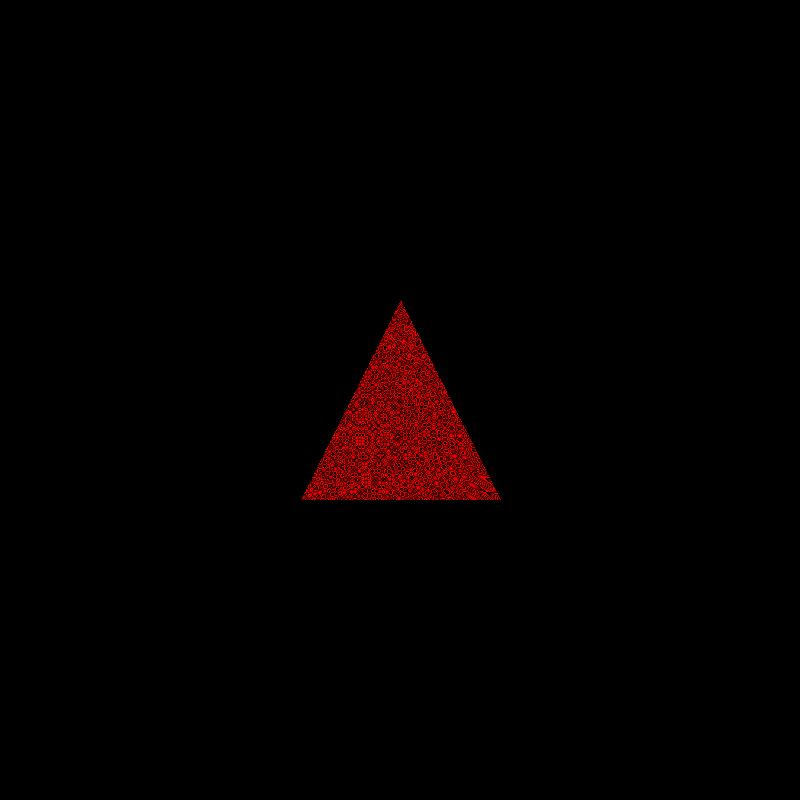
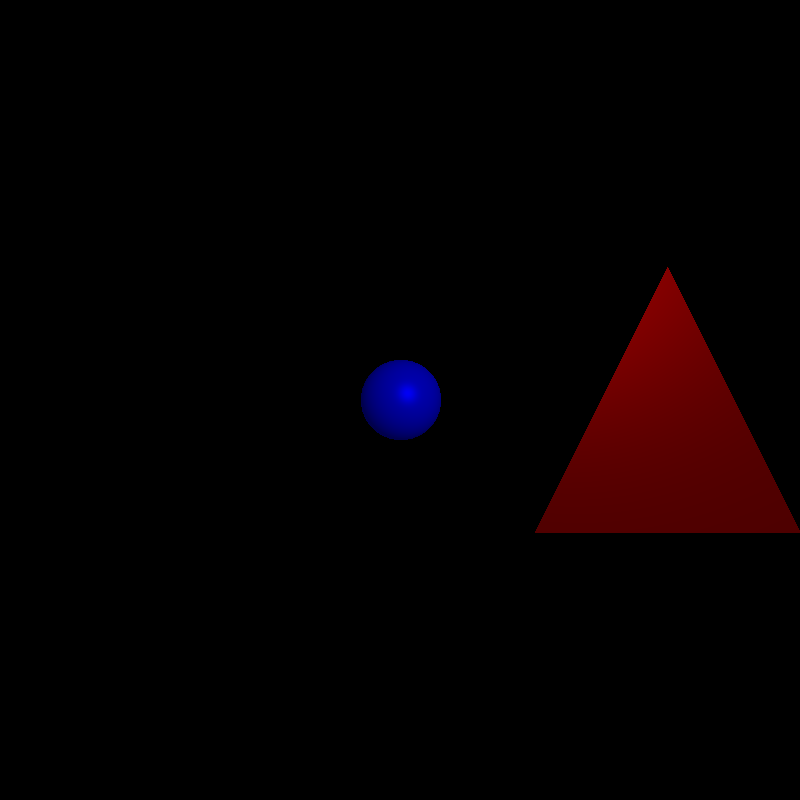
Shading working

Changed region(s): [[0.6562, 0.3438, 1.0, 0.6875], [0.375, 0.375, 0.625, 0.625]]

diff --git a/Raytracer/Raytracer/RayGenerator.cpp b/Raytracer/Raytracer/RayGenerator.cpp
@@ -20,13 +20,13 @@ vec3 phongLighting(RayIntersection rayIntersect, Scene *scene) {
 		vec3 light = normalize(scene->lights[l].pos - rayIntersect.position);
 		Ray refLight = reflectRay(Ray(scene->lights[l].pos, -light), rayIntersect.position, normal);
 
-		vec3 diffuse = shading.kd*dot(normal, light)*shading.color;
-		vec3 specular = shading.ks*pow(dot(viewer, refLight.dir), shading.n)*shading.color;
+		vec3 diffuse = shading.kd*clamp(dot(normal, light), 0.f, 1.f)*shading.color;
+		vec3 specular = shading.ks*pow(clamp(dot(viewer, refLight.dir), 0.f, 1.f), shading.n)*shading.color;
 
 		color += diffuse + specular;
 
 	}
-
+	
 	return color;
 }
 
@@ -46,7 +46,7 @@ void Raytracer::renderScene(float fov, float nearPlane, Scene *scene) {
 			glm::vec3 rayOrigin = topLeftLocation + vec3(float(i)*pixelWidth, -float(j)*pixelWidth, 0.f);
 			Ray ray = Ray(rayOrigin, normalize(rayOrigin));
 
-			vector<RayIntersection> intersectionList = intersect(ray, scene, 1);
+			vector<RayIntersection> intersectionList = intersect(ray, scene, 2);
 			vec3 color = vec3(0.f);
 			float rayContribution = 1.f;
 			for (int k = 0; k < intersectionList.size(); k++) {

diff --git a/Raytracer/Raytracer/Scene.cpp b/Raytracer/Raytracer/Scene.cpp
@@ -5,6 +5,8 @@
 using namespace glm;
 using namespace std;
 
+const float INTERSECTION_OFFSET = 0.0001f;
+
 vector<RayIntersection> intersect(Ray ray, Scene *scene, int maxIntersections) {
 	vector<RayIntersection> intersectionList;
 	
@@ -39,10 +41,10 @@ vector<RayIntersection> intersect(Ray ray, Scene *scene, int maxIntersections) {
 		else {
 			//Push back closest intersection
 			intersectionList.push_back(*(min_element(currentIntersections.begin(), currentIntersections.end())));
-
+			vec3 normal = intersectionList.back().object->getNormal(intersectionList.back().position);
 			currentRay = reflectRay(	currentRay,
-										intersectionList.back().position,
-										intersectionList.back().object->getNormal(intersectionList.back().position));
+										intersectionList.back().position + normal*INTERSECTION_OFFSET,
+										normal);
 
 		}
 	}

diff --git a/Raytracer/Raytracer/main.cpp b/Raytracer/Raytracer/main.cpp
@@ -12,9 +12,16 @@ int main() {
 	Scene scene;
 	Raytracer raytracer(800, 800);
 
-	ShadingInfo red(0.4, 0.5, 0.4, 10, vec3(1, 0, 0));
+	ShadingInfo red(0.4, 0.5, 0.4, 10, vec3(1, 0, 0), 0.5f);
+	ShadingInfo blue(0.4, 0.5, 0.4, 10, vec3(0, 0, 1), 0.5f);
 
-	scene.triangles.push_back(Triangle(vec3(-0.5f, -0.5f, 2.f), vec3(0.5f, -0.5f, 2.f), vec3(0.f, 0.5f, 2.f), red));
+	vec3 offset(1.f, 0.f, -0.5f);
+
+	scene.triangles.push_back(Triangle(
+		vec3(-0.5f, -0.5f, 2.f) + offset, 
+		vec3(0.5f, -0.5f, 2.f) + offset,
+		vec3(0.f, 0.5f, 2.f) + offset, red));
+	scene.spheres.push_back(Sphere(vec3(0.0f, 0.f, 5.f), 0.5f, blue));
 	scene.lights.push_back(Light(vec3(5.f, 5.f, -10.f)));
 
 	raytracer.renderScene(glm::radians(90.f), 0.5f, &scene);

diff --git a/Raytracer/Raytracer/ImageWriter.cpp b/Raytracer/Raytracer/ImageWriter.cpp
@@ -7,9 +7,9 @@ void writePng(glm::vec3 *data, int width, int height, std::string filename) {
 	unsigned char* imageBytes = new unsigned char[width*height*3];
 
 	for (int i = 0; i < width*height; i++) {
-		imageBytes[3 * i] = char(255.f*data[i].x);
-		imageBytes[3 * i + 1] = char(255.f*data[i].y);
-		imageBytes[3 * i + 2] = char(255.f*data[i].z);
+		imageBytes[3 * i] = char(255.f*glm::clamp(data[i].x, 0.f, 1.f));
+		imageBytes[3 * i + 1] = char(255.f*glm::clamp(data[i].y, 0.f, 1.f));
+		imageBytes[3 * i + 2] = char(255.f*glm::clamp(data[i].z, 0.f, 1.f));
 	}
 
 	stbi_write_png(filename.c_str(), width, height, 3, imageBytes, 0);

diff --git a/Raytracer/Raytracer/Geometry.cpp b/Raytracer/Raytracer/Geometry.cpp
@@ -81,7 +81,7 @@ bool RayIntersection::operator<(RayIntersection ray) {
 
 
 Ray reflectRay(Ray ray, vec3 pos, vec3 normal) {
-	vec3 newDir = dot(-ray.dir, normal)*normal*2.f - ray.dir;
+	vec3 newDir = -dot(ray.dir, normal)*normal*2.f + ray.dir;
 
 	return Ray(pos, newDir);
 }
